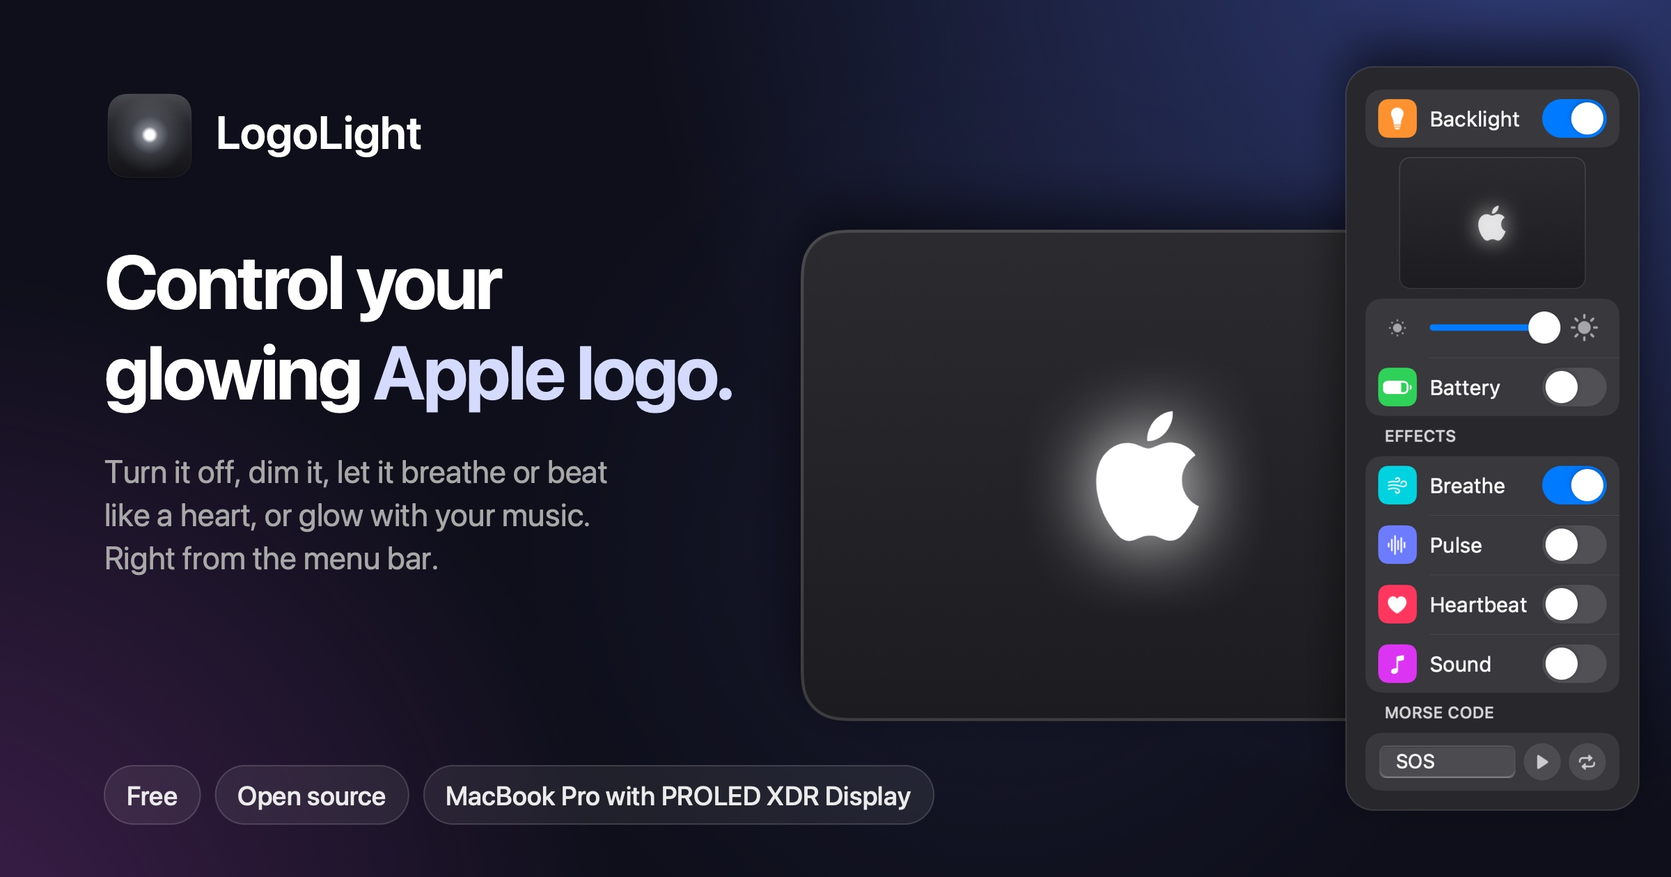
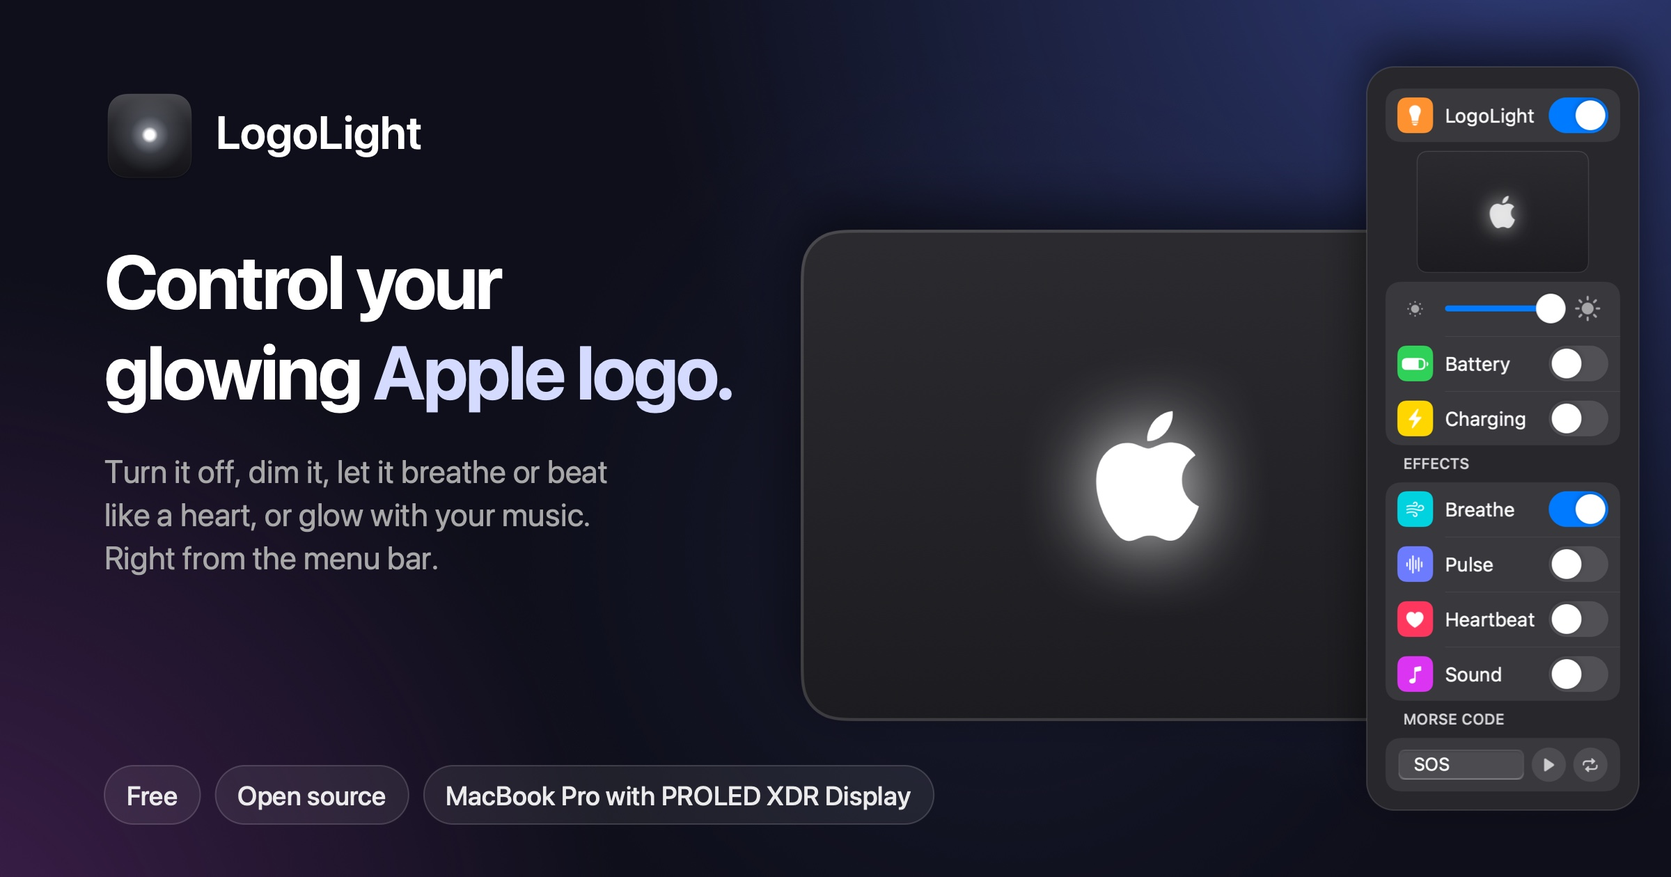
Bump the version to 1.3.0, and draw every picture again
1.3.0 has the Charging row and the switch renamed to LogoLight, so the
pictures of the menu were all out of date. Drawn again from the app's own
renderer: the README's banner and menu GIFs (the whole menu is now 619
points tall, 680 × 2476), the lid clips, and the site's menu pictures
(850 × 2435, as menu-*-130.png, since pictures are cached for a day under
their names) with the social preview (og-130.jpg). The Control Center
picture is the user's screenshot with arrows, which no script draws, so
the word Backlight is replaced in it, in the same type, in its heading and
its fourth step.

The site's hero follows the 487-point panel through --panel-height, has a
Charging feature, and says LogoLight switch wherever it said Backlight, as
do the README and llms.txt.

Changed region(s): [[0.7812, 0.3095, 0.9688, 0.9286], [0.7812, 0.0619, 0.9688, 0.1857], [0.875, 0.2167, 0.9062, 0.2786]]

diff --git a/site/public/index.html b/site/public/index.html
@@ -21,11 +21,11 @@
   <meta property="og:url" content="https://logolight.app/">
   <meta property="og:title" content="LogoLight: turn off or dim the MacBook Pro's glowing Apple logo">
   <meta property="og:description" content="A free, open-source menu bar app for the illuminated Apple logo on the back of the OLED MacBook Pro with PROLED XDR Display. Turn it off, set its brightness, let it breathe, pulse or beat like a heart, or glow with your music.">
-  <meta property="og:image" content="https://logolight.app/og-120.jpg">
+  <meta property="og:image" content="https://logolight.app/og-130.jpg">
   <meta property="og:image:type" content="image/jpeg">
   <meta property="og:image:width" content="1200">
   <meta property="og:image:height" content="630">
-  <meta property="og:image:alt" content="LogoLight: Control your glowing Apple logo. Turn it off, dim it, let it breathe or beat like a heart, or glow with your music. Right from the menu bar. Beside the text, LogoLight's live view shows a large lid with the Apple logo glowing, next to its menu with Backlight and Breathe switched on, and Sound among the effects.">
+  <meta property="og:image:alt" content="LogoLight: Control your glowing Apple logo. Turn it off, dim it, let it breathe or beat like a heart, or glow with your music. Right from the menu bar. Beside the text, LogoLight's live view shows a large lid with the Apple logo glowing, next to its menu with the LogoLight switch and Breathe switched on, and the Battery and Charging switches under the brightness slider.">
   <meta name="twitter:card" content="summary_large_image">
 
   <!-- Structured data for search engines and AI assistants: the app, and the FAQ below (keep the answers in step
@@ -47,26 +47,27 @@
         "@id": "https://logolight.app/#app",
         "name": "LogoLight",
         "url": "https://logolight.app/",
-        "description": "A free, open-source menu bar app for the illuminated Apple logo on the back of the MacBook Pro with PROLED XDR Display (the OLED MacBook Pro). Turn the logo off and on with a smooth fade, set its brightness, animate it with Breathe, Pulse or Heartbeat, or let it glow with the sound your Mac is playing. Includes a Backlight control for Control Center.",
+        "description": "A free, open-source menu bar app for the illuminated Apple logo on the back of the MacBook Pro with PROLED XDR Display (the OLED MacBook Pro). Turn the logo off and on with a smooth fade, set its brightness, animate it with Breathe, Pulse or Heartbeat, let it breathe while the battery charges, or let it glow with the sound your Mac is playing. Includes a control for Control Center.",
         "applicationCategory": "UtilitiesApplication",
         "operatingSystem": "macOS 14 or later",
         "softwareRequirements": "MacBook Pro with PROLED XDR Display",
-        "softwareVersion": "1.2.0",
-        "datePublished": "2026-11-09",
+        "softwareVersion": "1.3.0",
+        "datePublished": "2026-11-10",
         "downloadUrl": "https://logolight.app/LogoLight.zip",
         "installUrl": "https://logolight.app/#download",
         "image": "https://logolight.app/images/app-icon-256.png",
-        "screenshot": "https://logolight.app/images/menu-on-light-120.png",
+        "screenshot": "https://logolight.app/images/menu-on-light-130.png",
         "featureList": [
           "Turn the illuminated Apple logo off and on, with a smooth fade",
           "Set the logo's brightness",
           "Effects: Breathe, Pulse and Heartbeat",
           "Battery indicator: the logo dims as the battery runs down",
+          "Charging light: the logo breathes while the battery charges, like an old Mac's sleep light",
           "Flash a message in Morse code",
           "Sound: the logo glows with whatever the Mac is playing",
           "Keep the logo lit with the lid closed, using an external display",
           "Live view of the lid in its own finish, space black or silver",
-          "Backlight control for Control Center and the menu bar",
+          "A LogoLight switch for Control Center and the menu bar",
           "Option-click the menu bar icon to toggle the logo",
           "Launch at Login"
         ],
@@ -83,7 +84,7 @@
           {
             "@type": "Question",
             "name": "How do I turn off the Apple logo on my MacBook Pro?",
-            "acceptedAnswer": { "@type": "Answer", "text": "With LogoLight, flip the Backlight switch at the top of its menu, or hold Option and click LogoLight in the menu bar. The logo fades out, and stays off even after you quit LogoLight or restart your Mac. Without LogoLight, Apple's documented way is a command in Terminal: sudo defaults write com.apple.CoreBrightness LEBacklightMode -int 0 turns the logo off, and sudo defaults delete com.apple.CoreBrightness LEBacklightMode turns it back on. Apple documents only on and off; LogoLight adds brightness and effects." }
+            "acceptedAnswer": { "@type": "Answer", "text": "With LogoLight, flip the LogoLight switch at the top of its menu, or hold Option and click LogoLight in the menu bar. The logo fades out, and stays off even after you quit LogoLight or restart your Mac. Without LogoLight, Apple's documented way is a command in Terminal: sudo defaults write com.apple.CoreBrightness LEBacklightMode -int 0 turns the logo off, and sudo defaults delete com.apple.CoreBrightness LEBacklightMode turns it back on. Apple documents only on and off; LogoLight adds brightness and effects." }
           },
           {
             "@type": "Question",
@@ -126,6 +127,7 @@
       <symbol id="i-sun" viewBox="0 0 24 24" fill="none" stroke="currentColor" stroke-width="2" stroke-linecap="round"><circle cx="12" cy="12" r="4"/><path d="M12 2.5v2M12 19.5v2M2.5 12h2M19.5 12h2M5.3 5.3l1.4 1.4M17.3 17.3l1.4 1.4M5.3 18.7l1.4-1.4M17.3 6.7l1.4-1.4"/></symbol>
       <symbol id="i-wave" viewBox="0 0 24 24" fill="none" stroke="currentColor" stroke-width="2" stroke-linecap="round" stroke-linejoin="round"><path d="M2 12h3l2.5-6 4 13 3.5-10 2 3h5"/></symbol>
       <symbol id="i-battery" viewBox="0 0 24 24" fill="none" stroke="currentColor" stroke-width="2" stroke-linecap="round" stroke-linejoin="round"><rect x="2" y="7" width="17" height="10" rx="2.5"/><path d="M22 10.5v3"/><rect x="5" y="10" width="8" height="4" rx="1" fill="currentColor" stroke="none"/></symbol>
+      <symbol id="i-bolt" viewBox="0 0 24 24" fill="none" stroke="currentColor" stroke-width="2" stroke-linecap="round" stroke-linejoin="round"><path d="M13 3 5 13.5h6L10 21l8-10.5h-6z"/></symbol>
       <symbol id="i-morse" viewBox="0 0 24 24" fill="none" stroke="currentColor" stroke-width="3.4" stroke-linecap="round"><path d="M4 12h0M9.5 12h5M20 12h0"/></symbol>
       <symbol id="i-note" viewBox="0 0 24 24" fill="none" stroke="currentColor" stroke-width="2" stroke-linecap="round" stroke-linejoin="round"><path d="M9 18V6l10-2v12"/><circle cx="6.5" cy="18" r="2.5"/><circle cx="16.5" cy="16" r="2.5"/></symbol>
       <symbol id="i-display" viewBox="0 0 24 24" fill="none" stroke="currentColor" stroke-width="2" stroke-linecap="round" stroke-linejoin="round"><rect x="3" y="4" width="18" height="12" rx="2"/><path d="M12 16v4M8 20h8"/></symbol>
@@ -193,15 +195,15 @@
             <!-- The menu is a real render of LogoLight's panel (LOGOLIGHT_RENDER_PANEL, see PanelRenderer), with the
                  live view unlit; the menu bar, the menu's frame and its two plain items are drawn here, as the app shows
                  them. The live view's light (LOGOLIGHT_RENDER_LIGHT) is laid over the lid and faded with Breathe's timing. -->
-            <div class="screen" role="img" aria-label="LogoLight's menu, open below its icon in the menu bar. At the top, the Backlight switch is on. Below it, the live view of the lid, with the Apple logo glowing and slowly breathing, then the brightness slider near full and the Battery switch, and of the effects Breathe, Pulse, Heartbeat and Sound, Breathe is on. Below them, Morse code: a message field with play and loop buttons. Then Lit with Lid Closed, for an external display only, Launch at Login, checked, and Quit LogoLight.">
+            <div class="screen" role="img" aria-label="LogoLight's menu, open below its icon in the menu bar. At the top, the LogoLight switch is on. Below it, the live view of the lid, with the Apple logo glowing and slowly breathing, then the brightness slider near full and the Battery and Charging switches, and of the effects Breathe, Pulse, Heartbeat and Sound, Breathe is on. Below them, Morse code: a message field with play and loop buttons. Then Lit with Lid Closed, for an external display only, Launch at Login, checked, and Quit LogoLight.">
               <div class="menubar">
                 <span class="status status-open">
                   <img class="status-icon" src="images/menubar-icon.png" width="12" height="17" alt="">
                   <span class="menu">
                     <span class="menu-panel">
                       <picture>
-                        <source srcset="images/menu-breathe-dark-120.png" media="(prefers-color-scheme: dark)">
-                        <img src="images/menu-breathe-light-120.png" width="850" height="2250" alt="" fetchpriority="high">
+                        <source srcset="images/menu-breathe-dark-130.png" media="(prefers-color-scheme: dark)">
+                        <img src="images/menu-breathe-light-130.png" width="850" height="2435" alt="" fetchpriority="high">
                       </picture>
                       <span class="glow anim-breathe">
                         <img class="halo" src="images/lid-light-696.png" width="696" height="492" alt="">
@@ -339,8 +341,8 @@
           <figure class="menu-shot">
             <span class="menu menu-alone">
               <picture>
-                <source srcset="images/menu-on-dark-120.png" media="(prefers-color-scheme: dark)">
-                <img src="images/menu-on-light-120.png" width="850" height="2250" alt="LogoLight's menu with the logo on: the Backlight switch on, the live view of the lid with the Apple logo glowing, the brightness slider at three quarters with the Battery switch off below it, none of the effects Breathe, Pulse, Heartbeat and Sound switched on, and the Morse code field with its play and loop buttons." loading="lazy" decoding="async">
+                <source srcset="images/menu-on-dark-130.png" media="(prefers-color-scheme: dark)">
+                <img src="images/menu-on-light-130.png" width="850" height="2435" alt="LogoLight's menu with the logo on: the LogoLight switch on, the live view of the lid with the Apple logo glowing, the brightness slider at three quarters with the Battery and Charging switches off below it, none of the effects Breathe, Pulse, Heartbeat and Sound switched on, and the Morse code field with its play and loop buttons." loading="lazy" decoding="async">
               </picture>
             </span>
             <figcaption>On, at three quarters</figcaption>
@@ -348,8 +350,8 @@
           <figure class="menu-shot">
             <span class="menu menu-alone">
               <picture>
-                <source srcset="images/menu-off-dark-120.png" media="(prefers-color-scheme: dark)">
-                <img src="images/menu-off-light-120.png" width="850" height="2250" alt="LogoLight's menu with the logo off: the Backlight switch is off, the live view of the lid is dark, and the slider, the Battery switch, the effect switches and Morse code below it are greyed out, keeping their settings." loading="lazy" decoding="async">
+                <source srcset="images/menu-off-dark-130.png" media="(prefers-color-scheme: dark)">
+                <img src="images/menu-off-light-130.png" width="850" height="2435" alt="LogoLight's menu with the logo off: the LogoLight switch is off, the live view of the lid is dark, and the slider, the Battery and Charging switches, the effect switches and Morse code below it are greyed out, keeping their settings." loading="lazy" decoding="async">
               </picture>
             </span>
             <figcaption>Off, the rest greyed out</figcaption>
@@ -360,7 +362,7 @@
           <li class="feature">
             <span class="tile tile-orange"><svg aria-hidden="true" focusable="false"><use href="#i-power"/></svg></span>
             <h3>On and off</h3>
-            <p>Flip the Backlight switch, and the logo fades out, or back in, smoothly, usually without a password.</p>
+            <p>Flip the LogoLight switch, and the logo fades out, or back in, smoothly, usually without a password.</p>
           </li>
           <li class="feature">
             <span class="tile tile-blue"><svg aria-hidden="true" focusable="false"><use href="#i-sun"/></svg></span>
@@ -376,6 +378,11 @@
             <span class="tile tile-green"><svg aria-hidden="true" focusable="false"><use href="#i-battery"/></svg></span>
             <h3>Battery</h3>
             <p>Turn on Battery, and the logo shows your charge: full brightness when the battery is full, dimming as it runs down.</p>
+          </li>
+          <li class="feature">
+            <span class="tile tile-yellow"><svg aria-hidden="true" focusable="false"><use href="#i-bolt"/></svg></span>
+            <h3>Charging</h3>
+            <p>Turn on Charging, and the logo breathes like an old Mac's sleep light while the battery charges, then goes back to your effect.</p>
           </li>
           <li class="feature">
             <span class="tile tile-indigo"><svg aria-hidden="true" focusable="false"><use href="#i-morse"/></svg></span>
@@ -408,7 +415,7 @@
             <div class="cc-copy">
               <span class="tile tile-blue"><svg aria-hidden="true" focusable="false"><use href="#i-toggles"/></svg></span>
               <h3>In Control Center, too</h3>
-              <p>Put LogoLight's <strong>Backlight</strong> switch in Control Center, or straight into the menu bar: in Control Center, click Edit Controls, search for LogoLight and drag it&nbsp;in.</p>
+              <p>Put the <strong>LogoLight</strong> switch in Control Center, or straight into the menu bar: in Control Center, click Edit Controls, search for LogoLight and drag it&nbsp;in.</p>
               <p class="fine">Control Center offers apps no sliders, so brightness stays in LogoLight's menu.</p>
             </div>
             <!-- The real Control Center screenshot (docs/control-center.png, the README's), with the card spanning the
@@ -416,7 +423,7 @@
                  images/control-center-light.png and images/control-center-dark.png and add
                  <source srcset="images/control-center-dark.png" media="(prefers-color-scheme: dark)"> in a <picture>. -->
             <figure class="cc-shot">
-              <img src="images/control-center.png" width="1440" height="1289" alt="Control Center on a Mac, with LogoLight's Backlight button at the top. Beside it, an arrow from the word Backlight, and LogoLight's live view of the lid with the logo lit and dark, for on and off. Below, the steps to add it: open Control Center, click Edit Controls, search for LogoLight and drag Backlight in, with an arrow to the Edit Controls button." loading="lazy" decoding="async">
+              <img src="images/control-center-130.png" width="1440" height="1289" alt="Control Center on a Mac, with LogoLight's button at the top. Beside it, an arrow from the word LogoLight, and LogoLight's live view of the lid with the logo lit and dark, for on and off. Below, the steps to add it: open Control Center, click Edit Controls, search for LogoLight and drag LogoLight in, with an arrow to the Edit Controls button." loading="lazy" decoding="async">
             </figure>
           </li>
           <li class="card feature">
@@ -475,7 +482,7 @@
           <details>
             <summary><h3>How do I turn off the Apple logo on my MacBook&nbsp;Pro?</h3><svg aria-hidden="true" focusable="false"><use href="#i-chevron"/></svg></summary>
             <div class="answer">
-              <p>With LogoLight, flip the <strong>Backlight</strong> switch at the top of its menu, or hold <kbd>⌥ Option</kbd> and click LogoLight in the menu bar. The logo fades out, and stays off even after you quit LogoLight or restart your Mac.</p>
+              <p>With LogoLight, flip the <strong>LogoLight</strong> switch at the top of its menu, or hold <kbd>⌥ Option</kbd> and click LogoLight in the menu bar. The logo fades out, and stays off even after you quit LogoLight or restart your Mac.</p>
               <p>Without LogoLight, <a href="https://support.apple.com/en-us/149248">Apple's documented way</a> is a command in Terminal: <code>sudo defaults write com.apple.CoreBrightness LEBacklightMode -int 0</code> turns the logo off, and <code>sudo defaults delete com.apple.CoreBrightness LEBacklightMode</code> turns it back on. Apple documents only on and off; LogoLight adds brightness and effects.</p>
             </div>
           </details>

diff --git a/scripts/make-media.swift b/scripts/make-media.swift
@@ -16,7 +16,7 @@
 //
 // It writes:
 // - docs/media/<clip>.gif, the lid alone on the website's #0e1014 (20 fps, lid 348 px wide);
-// - docs/media/menu-breathe-light.gif and menu-breathe-dark.gif, the whole menu (680 × 2328, scale 4): the panel
+// - docs/media/menu-breathe-light.gif and menu-breathe-dark.gif, the whole menu (680 × 2476, scale 4): the panel
 //   with Breathe on, the slider at the top and the live view breathing, and the menu's own items under it, in
 //   the menu's rounded shape with clear corners (a GIF's pixels are clear or not, so the corners' edge pixels are
 //   blended onto GitHub's page colour, white or #0d1117), light and dark for a <picture> that follows

diff --git a/site/public/style.css b/site/public/style.css
@@ -522,7 +522,7 @@ strong {
   /* The panel's height in points (the menu pictures are 170 points wide and this tall). The screen's height
      and the place of the light over the lid follow from it, so it's the one number to change when a row is
      added to the panel. */
-  --panel-height: 450;
+  --panel-height: 487;
   justify-self: center;
   width: 100%;
   max-width: 600px;
@@ -1253,6 +1253,7 @@ strong {
 .tile-pink { background: #e5335c; }
 .tile-purple { background: #a550d6; }
 .tile-green { background: #26a04f; }
+.tile-yellow { background: #d99a00; }
 
 /* Cards */
 

diff --git a/README.md b/README.md
@@ -1,9 +1,9 @@
 <p align="center">
-  <img src="docs/banner.jpg" width="100%" alt="LogoLight: Control your glowing Apple logo. Turn it off, dim it, let it breathe or beat like a heart, or glow with your music. Right from the menu bar. Free, open source, for the MacBook Pro with PROLED XDR Display. Beside the text, LogoLight's live view shows a large lid with the Apple logo glowing, next to its menu with Backlight and Breathe switched on.">
+  <img src="docs/banner.jpg" width="100%" alt="LogoLight: Control your glowing Apple logo. Turn it off, dim it, let it breathe or beat like a heart, or glow with your music. Right from the menu bar. Free, open source, for the MacBook Pro with PROLED XDR Display. Beside the text, LogoLight's live view shows a large lid with the Apple logo glowing, next to its menu with the LogoLight switch and Breathe switched on.">
 </p>
 
 <p align="center">
-  <a href="https://github.com/Ark0N/LogoLight/releases/latest/download/LogoLight-1.2.0.zip"><img src="docs/download-button.png" height="56" alt="Download LogoLight"></a>
+  <a href="https://github.com/Ark0N/LogoLight/releases/latest/download/LogoLight-1.3.0.zip"><img src="docs/download-button.png" height="56" alt="Download LogoLight"></a>
   &nbsp;
   <a href="https://buymeacoffee.com/arkon"><img src="https://cdn.buymeacoffee.com/buttons/v2/default-yellow.png" height="56" alt="Buy me a coffee"></a>
 </p>
@@ -21,11 +21,11 @@
     <td width="360" align="center" valign="middle">
       <picture>
         <source media="(prefers-color-scheme: dark)" srcset="docs/media/menu-breathe-dark.gif">
-        <img src="docs/media/menu-breathe-light.gif" width="320" alt="LogoLight's whole menu with the Backlight switch on and Breathe switched on: the live view of the lid shows the Apple logo slowly glowing, fading out and glowing again, above the brightness slider, the Battery switch, the effect switches (Breathe, Pulse, Heartbeat and Sound) and Morse code. Under them, the menu's own items: Disable Password, checked; Lit with Lid Closed, for an external display only; Launch at Login, checked; and Quit LogoLight.">
+        <img src="docs/media/menu-breathe-light.gif" width="320" alt="LogoLight's whole menu with the LogoLight switch on and Breathe switched on: the live view of the lid shows the Apple logo slowly glowing, fading out and glowing again, above the brightness slider, the Battery and Charging switches, the effect switches (Breathe, Pulse, Heartbeat and Sound) and Morse code. Under them, the menu's own items: Disable Password, checked; Lit with Lid Closed, for an external display only; Launch at Login, checked; and Quit LogoLight.">
       </picture>
     </td>
     <td valign="middle">
-      <b>Backlight switch</b><br>
+      <b>LogoLight switch</b><br>
       At the top of the menu, or Option-click the menu bar icon. The logo fades out and back in smoothly, with no password.
       <br><br>
       <b>Live view</b><br>
@@ -53,7 +53,7 @@
       Using an external display with the lid closed? The logo can stay lit, with its effects, while the keyboard stays dark.
       <br><br>
       <b>Control Center</b><br>
-      A Backlight control for Control Center or the menu bar (macOS 26 or later).
+      A LogoLight switch for Control Center or the menu bar (macOS 26 or later).
       <br><br>
       <b>A password once, at most</b><br>
       Usually none at all. Where macOS asks, <a href="#fallback-the-documented-command">Disable Password</a> makes it the only time.
@@ -76,7 +76,7 @@
   </tr>
   <tr>
     <td align="center"><img src="docs/media/heartbeat.gif" width="330" alt="LogoLight's live view of the lid: the Apple logo beats twice, then rests (Heartbeat)."><br><b>Heartbeat</b></td>
-    <td align="center"><img src="docs/media/on-off.gif" width="330" alt="LogoLight's live view of the lid: the Apple logo fades out, stays dark, then fades back in (the Backlight switch)."><br><b>On and off</b></td>
+    <td align="center"><img src="docs/media/on-off.gif" width="330" alt="LogoLight's live view of the lid: the Apple logo fades out, stays dark, then fades back in (the LogoLight switch)."><br><b>On and off</b></td>
   </tr>
 </table>
 
@@ -84,7 +84,7 @@
 
 ## Install
 
-1. **[Download LogoLight](https://github.com/Ark0N/LogoLight/releases/latest/download/LogoLight-1.2.0.zip)**.
+1. **[Download LogoLight](https://github.com/Ark0N/LogoLight/releases/latest/download/LogoLight-1.3.0.zip)**.
    It's signed with a Developer ID and notarized by Apple.
 2. Unzip it, move **LogoLight** to your Applications folder and open it. It lives in the menu bar.
 
@@ -95,10 +95,10 @@ On other Macs, LogoLight opens but says the logo isn't available.
 
 1. Click Control Center in the menu bar, then **Edit Controls** at the bottom.
 2. Search for **LogoLight**.
-3. Drag **Backlight** into Control Center, or straight into the menu bar.
+3. Drag **LogoLight** into Control Center, or straight into the menu bar.
 
 <p align="center">
-  <img src="docs/control-center.png" width="720" alt="Control Center with LogoLight's Backlight button at the top left. An arrow points to it: one tap turns the glowing logo on your lid on or off, shown as the lid lit and dark. A second arrow points to Edit Controls, with the steps to add it: open Control Center, click Edit Controls, search for LogoLight, drag Backlight in.">
+  <img src="docs/control-center.png" width="720" alt="Control Center with LogoLight's button at the top left. An arrow points to it: one tap turns the glowing logo on your lid on or off, shown as the lid lit and dark. A second arrow points to Edit Controls, with the steps to add it: open Control Center, click Edit Controls, search for LogoLight, drag LogoLight in.">
 </p>
 
 <sub>Apple only lets apps add switches and buttons to Control Center, so the brightness slider stays in LogoLight's own menu.</sub>
